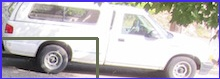
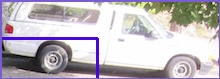
person croping from webcam
yolo p person ka hona zarori h
filhal ek person p he chale ga
har yolo p crop hogyi....but nam fixed h toh picture overwrite hojae gy
Yeh sab easily theek hoskta h:)

Changed region(s): [[0.0, 0.0, 1.0, 1.0]]

diff --git a/project.py b/project.py
@@ -124,11 +124,24 @@ def yolo():
 
   j=0
   for i in classid:
-    print(i)
     if i==0:
       print("persons bounding box is: ",bboxes[j])
-      break
+      boxes=bboxes[j].copy()
+      print(boxes[1])
     j=j+1
+
+  ############################temp ###########33
+  #for index,value in enumerate(boxes):
+  name = 'dataset/' + str("person") + '.jpg'
+  y = boxes[1]
+  x = boxes[0]
+  h = boxes[3]
+  w = boxes[2]
+  crop_img = img[y:y+h, x:x+w]
+  cv.imwrite(name,crop_img)
+
+
+  ##########################temp done#########33  
 
   my_tuple = []
 
@@ -167,7 +180,7 @@ if __name__ == '__main__':
   videoPath = "race.mp4"
   
   # Create a video capture object to read videos
-  cap = cv2.VideoCapture(videoPath)
+  cap = cv2.VideoCapture(0)
  
   # Read first frame
   success, frame = cap.read()
@@ -179,6 +192,7 @@ if __name__ == '__main__':
   ## Select boxes
   bboxes = []
   colors = [] 
+  boxes=[]
 
 
   ################# copied code

diff --git a/yolo_utils.py b/yolo_utils.py
@@ -83,8 +83,8 @@ def infer_image(net, layer_names, height, width, img, colors, labels, FLAGS,
         
         # Generate the boxes, confidences, and classIDs
         boxes, confidences, classids = generate_boxes_confidences_classids(outs, height, width, FLAGS.confidence)
-        #print("Bounding boxes: "  , boxes)
-        #print("Class id:  ",classids)
+        print("Bounding boxes: "  , boxes)
+        print("Class id:  ",classids)
         # Apply Non-Maxima Suppression to suppress overlapping bounding boxes
         idxs = cv.dnn.NMSBoxes(boxes, confidences, FLAGS.confidence, FLAGS.threshold)
 
